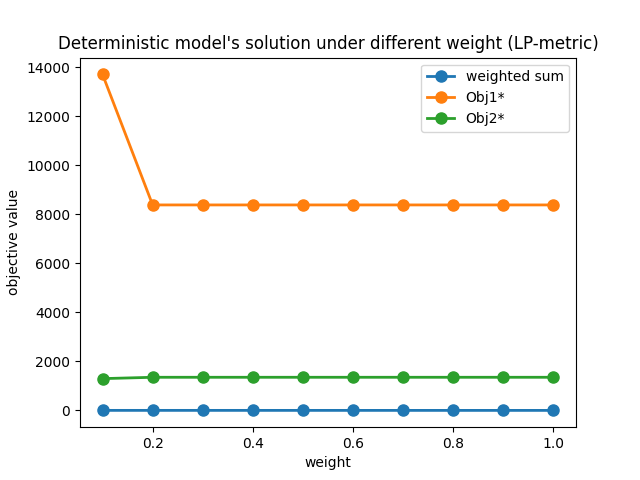
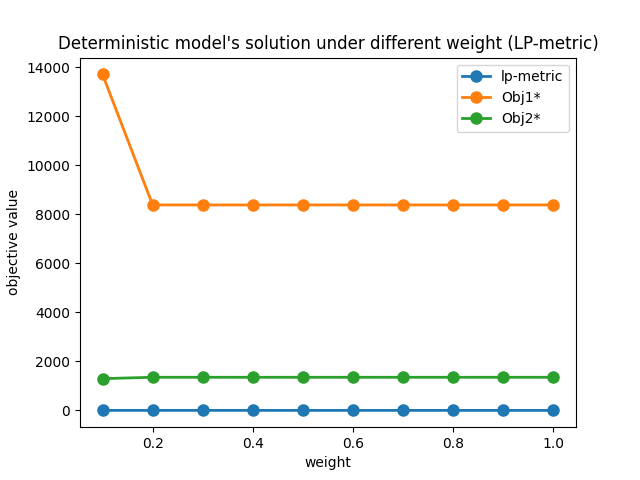
fix: sp model figure (objval access)

Changed region(s): [[0.6562, 0.125, 0.875, 0.2812]]

diff --git a/sp_model.py b/sp_model.py
@@ -2,7 +2,7 @@
 import pandas as pd
 from gurobipy import *
 from util import to_range, DATA_PATH, FIG_PATH, getSupplierAADistance, OptimizationMethod
-
+from typing import List
 import matplotlib.pyplot as plt
 
 PATH_PREFIX = 'MoDRL_'
@@ -18,7 +18,7 @@ assert df_remains_usable.shape[1] == df_distance.shape[0]
 opt_method = OptimizationMethod.LP_METRIC
 
 M = 10 ** 1e1  # a large number
-EPSILON = (df_demand.shape[1] // 2 // 2) + 1  # a limit on the number of CS
+EPSILON = (df_demand.shape[1] //2) + 1  # a limit on the number of CS
 
 
 def getDemand():
@@ -37,9 +37,9 @@ def getDemand():
 # Here J, K are the same point sets
 SET = dict(
     I=[i for i in range(df_supplier.shape[0])],  # set of suppliers (i)
-    J=[j for j in range(df_demand.shape[1] // 2)],  # candidates of RDC or CS (j)
-    K=[k for k in range(df_demand.shape[1] // 2 + 1)],  # set of AA (k)
-    Kh=[k for k in range(df_demand.shape[1] // 2 // 2)],  # set of high-risk AA (`Kh` is a subset of `K`) (k′)
+    J=[j for j in range(df_demand.shape[1])],  # candidates of RDC or CS (j)
+    K=[k for k in range(df_demand.shape[1])],  # set of AA (k)
+    Kh=[k for k in range(df_demand.shape[1] // 2 + 1)],  # set of high-risk AA (`Kh` is a subset of `K`) (k′)
     S=[s for s in range(df_scenario.shape[0])],  # set of scenarios (s)
     C=[c for c in range(df_supplier.shape[1])]  # set of commodities (c)
 )
@@ -76,7 +76,9 @@ PARAMETER = dict(
 )
 
 
-def solve(weight=0.01, opt_method=OptimizationMethod.LP_METRIC):
+def solve(weight=0.01,
+        opt_method=OptimizationMethod.LP_METRIC,
+        single_objval:List[float]=[0,0]):
     # supplier -> RDC / CS -> AA
     model = Model('Disaster relief logistic model: Discrete Stochastic')
     model.ModelSense = GRB.MINIMIZE
@@ -146,7 +148,6 @@ def solve(weight=0.01, opt_method=OptimizationMethod.LP_METRIC):
         model.setObjectiveN(obj1, index=0, weight=W1, name='Cost')
         model.setObjectiveN(obj2, index=1, weight=1 - W1, name='Satisfaction measure')
     elif opt_method == OptimizationMethod.LP_METRIC:
-        single_objval = (7308.45125, 1363.9199999999998)
 
         model.setObjectiveN(((obj1 - single_objval[0]) / single_objval[0]), index=0, weight=W1, name='Cost')
         model.setObjectiveN(((obj2 - single_objval[1]) / single_objval[1]), index=1, weight=1 - W1,
@@ -247,24 +248,60 @@ def solve(weight=0.01, opt_method=OptimizationMethod.LP_METRIC):
 
     print(f'Objective value: {model.objVal}')
 
-    return model
+    return model, obj1.getValue(), obj2.getValue()
 
 
+# get obj*
+m, obj1, obj2 = solve(1, OptimizationMethod.WEIGHTED_SUM)
+obj1_star = obj1
+m, obj1, obj2 = solve(0, OptimizationMethod.WEIGHTED_SUM)
+obj2_star = obj2
+objstars = [obj1_star, obj2_star]
+print(objstars)
 # %%
-weights = [0.001 * i for i in range(1, 11)]
-solvers = [solve(w, OptimizationMethod.LP_METRIC) for w in weights]
-plt.plot(weights, [s.objVal for s in solvers], linestyle='-', linewidth='2', markersize='16', marker='.')
+weights = [0.1 * i for i in range(0, 11)]
+solvers = [solve(w, OptimizationMethod.LP_METRIC, objstars) for w in weights]
+# note that in lp-metrics, we need (Obj - Obj*) / Obj* instead of native Obj
+Obj1_s = [(s[1] - obj1_star) / obj1_star for s in solvers]
+Obj2_s = [(s[2] - obj2_star) / obj2_star for s in solvers]
+LpObjs = [weights[i] * Obj1_s[i] + (1-weights[i]) * Obj2_s[i] for i in to_range(weights)]
+Obj1s = [s[1] for s in solvers]
+Obj2s = [s[2] for s in solvers]
+#%%`
+plt.plot(weights, LpObjs, linestyle='-', linewidth='2', markersize='16', marker='.', label="lp-metric")
+plt.plot(weights, Obj1s, linestyle='-', linewidth='2', markersize='16', marker='.', label="Obj1*")
+plt.plot(weights, Obj2s, linestyle='-', linewidth='2', markersize='16', marker='.', label="Obj2*")
 plt.xlabel('weight')
 plt.ylabel('objective value')
+plt.legend()
 plt.title('Stochastic model\'s solution under different weight (LP-metric)')
 plt.savefig(FIG_PATH + '/sp_lp-metric.png')
 plt.show()
-# %%
-weights = [0.001 * i for i in range(1, 11)]
-solvers = [solve(w, OptimizationMethod.WEIGHTED_SUM) for w in weights]
-plt.plot(weights, [s.objVal for s in solvers], linestyle='-', linewidth='2', markersize='16', marker='.')
+'''
+
+LpObjs =
+[0.0,
+ 0.34543180176163213,
+ 0.4408713642341399,
+ 0.47799089452502563,
+ 0.48004170065664,
+ 0.40003472038905774,
+ 0.3200282669177362,
+ 0.24002128587283278,
+ 0.1600142011787681,
+ 0.13255314121554862,
+ 0.0]
+'''
+#%%solvers = [solve(w, OptimizationMethod.WEIGHTED_SUM) for w in weights]
+weightedObjs = [weights[i] * solvers[i][1] + (1-weights[i]) * solvers[i][2] for i in to_range(weights)]
+Obj1s = [s[1] for s in solvers]
+Obj2s = [s[2]for s in solvers]
+plt.plot(weights, weightedObjs, linestyle='-', linewidth='2', markersize='16', marker='.', label="weighted sum")
+plt.plot(weights, Obj1s, linestyle='-', linewidth='2', markersize='16', marker='.', label="Obj1*")
+plt.plot(weights, Obj2s, linestyle='-', linewidth='2', markersize='16', marker='.', label="Obj2*")
 plt.xlabel('weight')
-plt.ylabel('objective value')
-plt.title('Stochastic model\'s solution under different weight (weighted sum)')
+plt.ylabel('Objective value')
+plt.legend()
+plt.title('Stochastic model\'s solution under different weight (weighted-sum)')
 plt.savefig(FIG_PATH + '/sp_ws.png')
 plt.show()

diff --git a/dm_model.py b/dm_model.py
@@ -244,7 +244,7 @@ LpObjs = [weights[i] * Obj1_s[i] + (1-weights[i]) * Obj2_s[i] for i in to_range(
 Obj1s = [s[1] for s in solvers]
 Obj2s = [s[2] for s in solvers]
 #%%
-plt.plot(weights, LpObjs, linestyle='-', linewidth='2', markersize='16', marker='.', label="weighted sum")
+plt.plot(weights, LpObjs, linestyle='-', linewidth='2', markersize='16', marker='.', label="lp-metric")
 plt.plot(weights, Obj1s, linestyle='-', linewidth='2', markersize='16', marker='.', label="Obj1*")
 plt.plot(weights, Obj2s, linestyle='-', linewidth='2', markersize='16', marker='.', label="Obj2*")
 plt.xlabel('weight')
@@ -253,7 +253,20 @@ plt.legend()
 plt.title('Deterministic model\'s solution under different weight (LP-metric)')
 plt.savefig(FIG_PATH + '/dm_lp-metric.png')
 plt.show()
+'''
+LpObjs = 
+[0.9892620596706254,
+ 0.8917457998538403,
+ 0.7802775748721102,
+ 0.6688093498903802,
+ 0.5573411249086927,
+ 0.44587289992695406,
+ 0.33440467494521553,
+ 0.22293644996347703,
+ 0.11146822498173851,
+ 0.0]
 
+'''
 
 
 # %%
